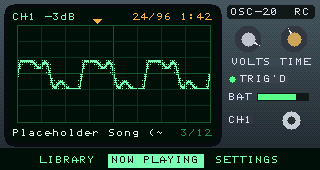
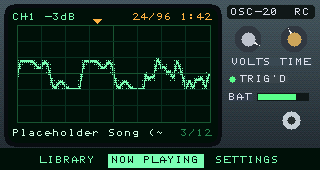
fix(themes): Oscilloscope press mood uses the loud trace
The pressed home state froze on w1; the approved mockup switches to the
w2/w3 loud tiles while a key is held. Match it and drop the redundant BNC
"CH1" label (the tube readout already names the channel) to stay inside
4096 B. Docs and moods sheet updated.

Changed region(s): [[0.4375, 0.3529, 0.6562, 0.5294], [0.7188, 0.6765, 0.7812, 0.7353]]

diff --git a/docs/themes/oscilloscope/README.md b/docs/themes/oscilloscope/README.md
@@ -52,7 +52,7 @@ literals only: the expression parser has no `0x` numbers.
 | 0 | playing, volume <= -6 dB | three tiles alternate `w1`/`w2` |
 | 5 | playing, volume > -6 dB | `w3`, the clipped square wave |
 | 4 | not playing | trace hidden, flat line + READY |
-| 2 | `idle < 700` ms | frozen `w1` frame |
+| 2 | `idle < 700` ms | loud `w2`/`w3` tiles (key pressed) |
 | 3 | paused and `idle > 60 s` | flat line (asleep) |
 | 1 | battery 0..14 % | trace in `danger`, LOW BAT, red battery bar |
 
@@ -88,7 +88,7 @@ now evaluates both operands before combining them; a regression case lives in
 
 | file | bytes / 4096 | sections / 52 |
 |---|---|---|
-| home.skin | 4064 | 49 |
+| home.skin | 4057 | 48 |
 | now_playing.skin | 4027 | 47 |
 | library.skin | 1010 | 13 |
 | library_cat.skin | 1022 | 13 |
@@ -103,7 +103,8 @@ the 1024 B cache.
 These are deliberate budget cuts, not engine limits:
 
 * the third (dimmest) goniometer beam sliver is omitted;
-* the tube's CH1 ground arrow and the `1M 300V` spec line are omitted;
+* the tube's CH1 ground arrow, the `1M 300V` spec line and the BNC
+  `CH1` label (redundant with the `CH1 -18dB` readout) are omitted;
 * the trace shape is `noise()`-driven, so a still frame never matches the
   mockup's generated tile pixel for pixel (the tile *set* is identical);
 * text always paints its background, so panel labels show a faint flat box
